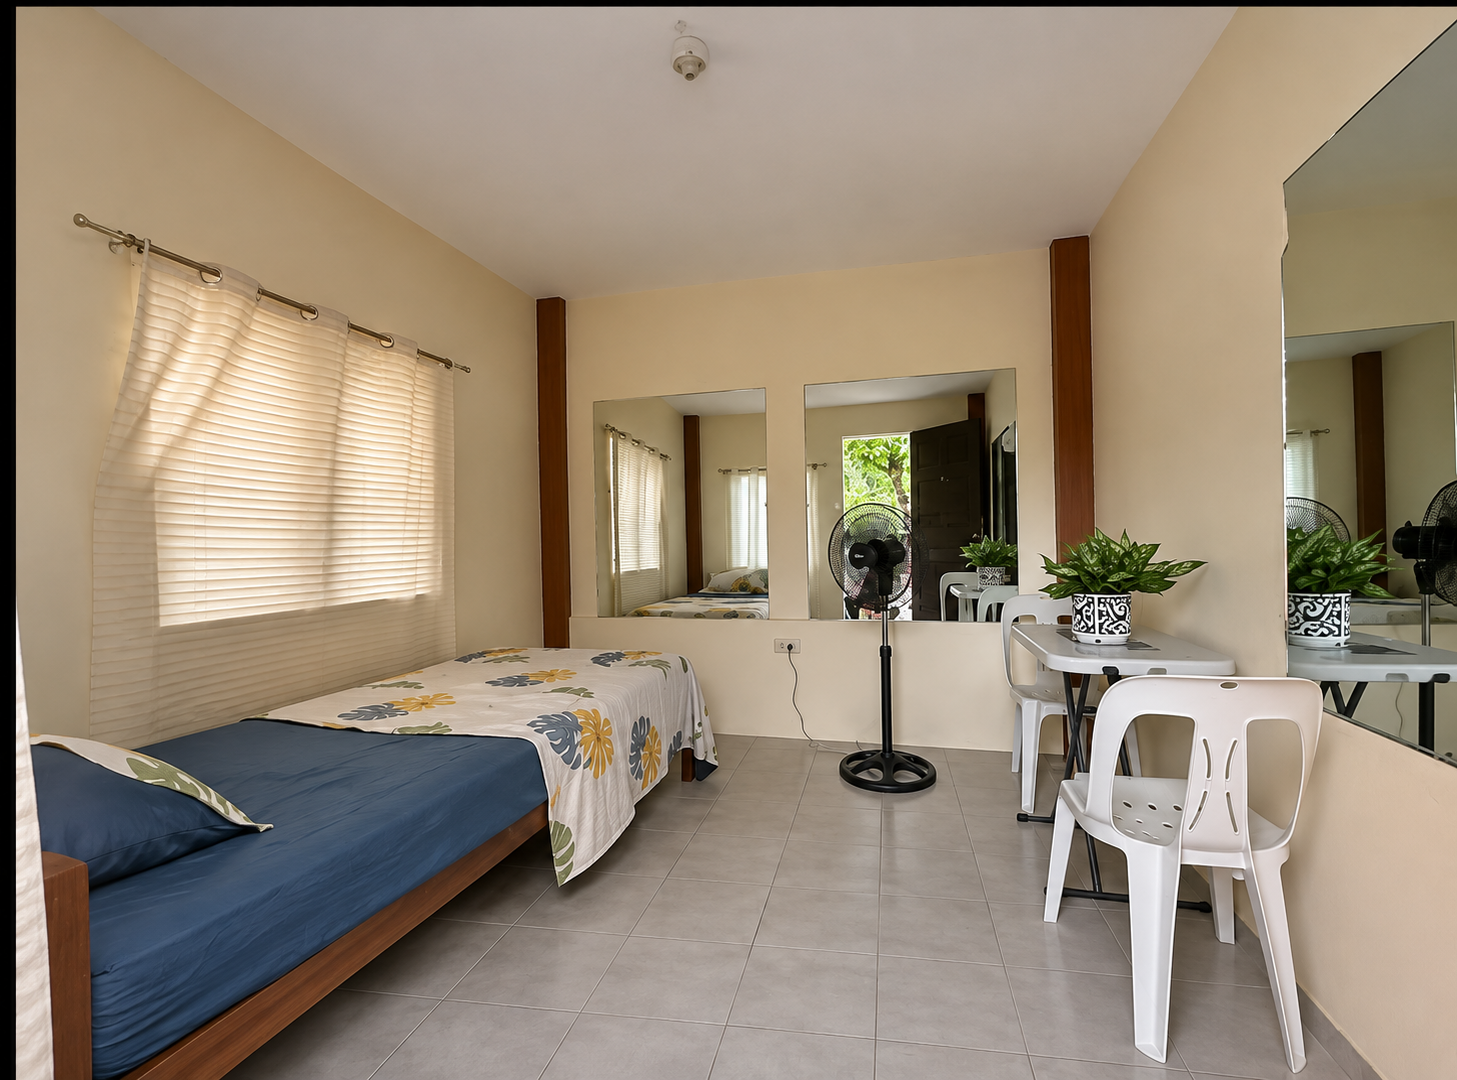
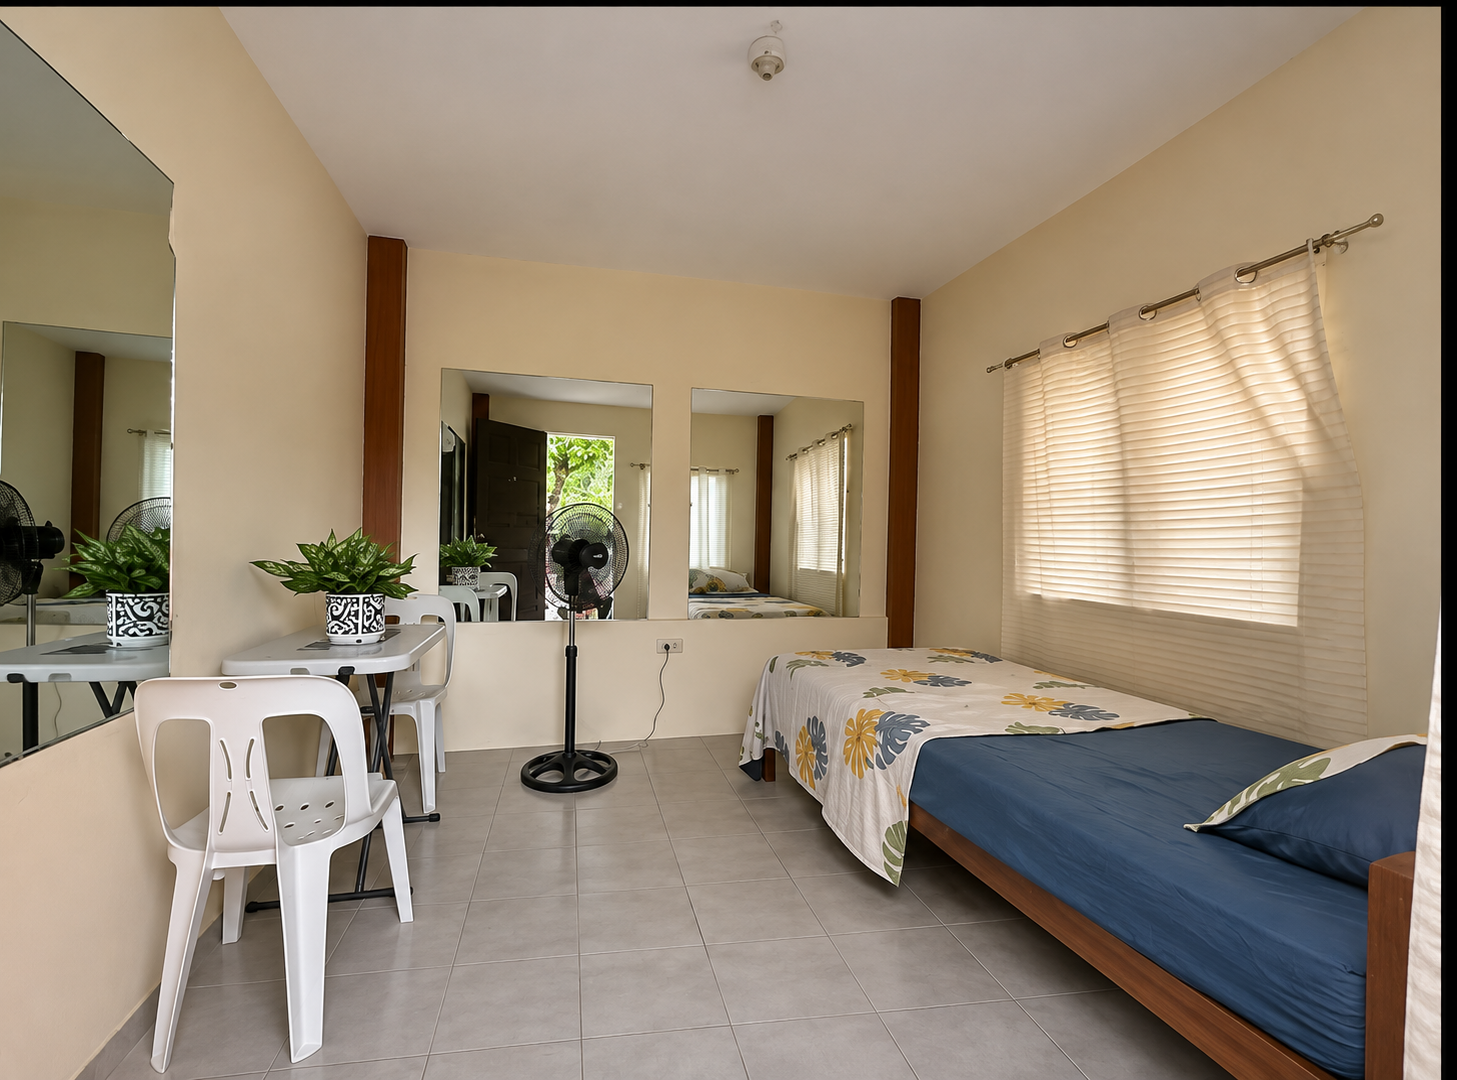
Add AC and fan amenity to Room 1

diff --git a/database/seeders/RoomSeeder.php b/database/seeders/RoomSeeder.php
@@ -12,7 +12,7 @@ class RoomSeeder extends Seeder
         $profiles = [];
 
         foreach ([
-            ['fan-room-solo', 'Fan room', 1, 1, 450, 'per 22-hour stay', 22, 'A simple private fan room for one guest, with a 22-hour stay beginning at noon.', '/images/rooms/room-1-angle-1.png', ['Common CR']],
+            ['fan-room-solo', 'Fan room', 1, 1, 450, 'per 22-hour stay', 22, 'A simple private fan room for one guest, with a 22-hour stay beginning at noon.', '/images/rooms/room-1-angle-1.png', ['Common CR', 'AC/Fan']],
             ['air-conditioned-room-couple', 'Air-conditioned room', 1, 2, 450, '', 6, 'A comfortable air-conditioned room with one bed for up to two guests and access to a shared bathroom.', '/images/rooms/room-2-angle-3.jpg', ['AC/Fan', 'Common CR']],
             ['fan-room-couple', 'Fan room', 1, 2, 450, 'per 22-hour stay', 22, 'A practical fan room for up to two guests, with rates starting at ₱450 for a 22-hour stay.', '/images/rooms/room-3-angle-1.jpg', ['AC/Fan', 'With CR', 'Refrigerator', 'TV']],
             ['air-conditioned-day-stay', 'Air-conditioned room', 1, 2, 450, '', 22, 'Best suited to solo travelers, this air-conditioned room has one bed for up to two guests. 22-hour stays start at ₱450.', '/images/rooms/room-4-angle-1.jpg', ['AC/Fan', 'Common CR']],

diff --git a/database/migrations/2026_11_13_000005_add_ac_fan_to_room_1_amenities.php b/database/migrations/2026_11_13_000005_add_ac_fan_to_room_1_amenities.php
@@ -1,0 +1,24 @@
+<?php
+
+use Illuminate\Database\Migrations\Migration;
+use Illuminate\Support\Facades\DB;
+
+return new class extends Migration
+{
+    public function up(): void
+    {
+        DB::table('rooms')->where('slug', 'fan-room-solo')->update([
+            'image_url' => '/images/rooms/room-1-angle-1.png',
+            'amenities' => json_encode(['Common CR', 'AC/Fan'], JSON_UNESCAPED_UNICODE),
+            'updated_at' => now(),
+        ]);
+    }
+
+    public function down(): void
+    {
+        DB::table('rooms')->where('slug', 'fan-room-solo')->update([
+            'amenities' => json_encode(['Common CR'], JSON_UNESCAPED_UNICODE),
+            'updated_at' => now(),
+        ]);
+    }
+};
